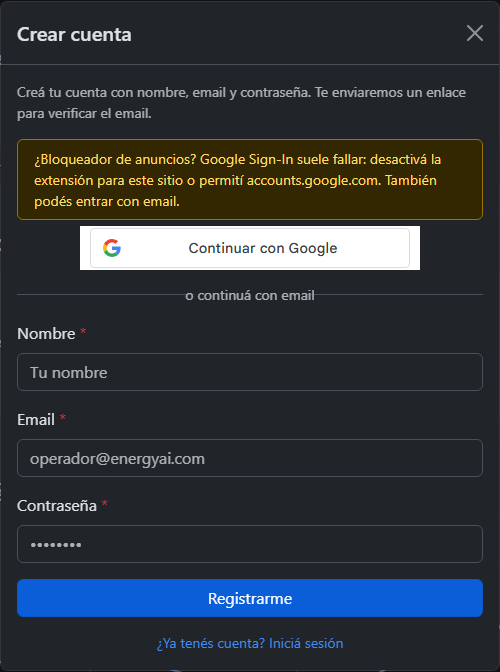
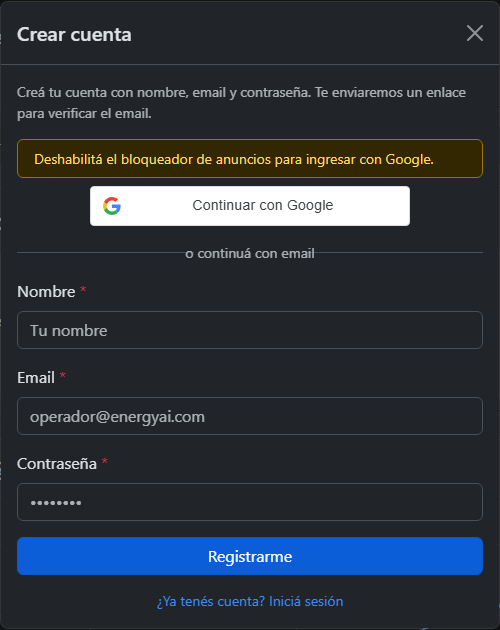
fix(auth): cartel Google solo si falla el clic; capturas login limpio vs bloqueador
Muestra googleBlockHintShort tras bloqueo/popup; README y PNG alineados.

diff --git a/frontend/src/i18n/locales/es.js b/frontend/src/i18n/locales/es.js
@@ -110,9 +110,9 @@ export default {
     switchToLogin: '¿Ya tenés cuenta? Iniciá sesión',
     orContinueWithEmail: 'o continuá con email',
     googleBlockHint:
-      'Si usás bloqueador de anuncios o extensiones de privacidad, Google Sign-In puede no cargar o no abrir la ventana al hacer clic. Desactivá el bloqueador para este sitio o permití accounts.google.com y recargá. Podés entrar con email y contraseña.',
+      'Deshabilitá el bloqueador de anuncios para ingresar con Google. También podés usar email y contraseña.',
     googleBlockHintShort:
-      '¿Bloqueador de anuncios? Google Sign-In suele fallar: desactivá la extensión para este sitio o permití accounts.google.com. También podés entrar con email.',
+      'Deshabilitá el bloqueador de anuncios para ingresar con Google.',
     forgotLink: '¿Olvidaste tu contraseña?',
     forgotTitle: 'Recuperar contraseña',
     forgotHint: 'Te enviaremos un enlace para restablecerla.',

diff --git a/frontend/src/i18n/locales/en.js b/frontend/src/i18n/locales/en.js
@@ -110,9 +110,9 @@ export default {
     switchToLogin: 'Already have an account? Sign in',
     orContinueWithEmail: 'or continue with email',
     googleBlockHint:
-      'Ad blockers or privacy extensions may block Google Sign-In or stop the sign-in window from opening when you click. Disable them for this site or allow accounts.google.com, then reload. You can still sign in with email and password.',
+      'Disable your ad blocker to sign in with Google. You can still use email and password.',
     googleBlockHintShort:
-      'Using an ad blocker? Google Sign-In often fails—disable the extension for this site or allow accounts.google.com. You can still use email sign-in.',
+      'Disable your ad blocker to sign in with Google.',
     forgotLink: 'Forgot your password?',
     forgotTitle: 'Reset password',
     forgotHint: 'We will email you a reset link.',

diff --git a/frontend/src/components/LoginModal.jsx b/frontend/src/components/LoginModal.jsx
@@ -377,11 +377,11 @@ function LoginModal({ show, onHide, onAuthSuccess }) {
               }
             }}
           >
-            <div className="alert alert-warning py-2 small mb-2" role="note">
-              {googleBlockDetected
-                ? t('auth.googleBlockHint')
-                : t('auth.googleBlockHintShort')}
-            </div>
+            {googleBlockDetected && (
+              <div className="alert alert-warning py-2 small mb-2" role="status">
+                {t('auth.googleBlockHintShort')}
+              </div>
+            )}
             <GoogleSignInButton
               onCredential={handleGoogleCredential}
               onBlocked={showGoogleBlockAfterClick}

diff --git a/frontend/README.md b/frontend/README.md
@@ -179,12 +179,15 @@ Recuperación: **olvidé contraseña** envía link; **reset** solo con `resetTok
 
 Extensiones (uBlock, Privacy Badger, etc.) pueden **bloquear el script de Google** o **impedir que abra la ventana** al hacer clic en “Continuar con Google”.
 
-En el modal se muestra un **aviso amarillo** (`alert-warning`):
+En el modal se muestra un **cartel amarillo** solo si Google no responde (`alert-warning`, clave `auth.googleBlockHintShort`):
 
-| Momento | Texto (clave i18n) |
-|---------|---------------------|
-| Siempre que hay botón Google | `auth.googleBlockHintShort` — aviso preventivo |
-| Tras clic sin popup / script fallido | `auth.googleBlockHint` — instrucciones completas (permitir `accounts.google.com`, recargar) |
+- **Sin cartel:** login normal con botón Google y email.
+- **Con cartel:** tras clic en Google sin popup (~3,2 s) o si falla el script GIS — mensaje corto: *«Deshabilitá el bloqueador de anuncios para ingresar con Google…»*
+
+| Momento | UI |
+|---------|-----|
+| Apertura del modal | Sin aviso (login limpio) |
+| Bloqueador / popup bloqueado | Cartel amarillo con texto corto |
 
 Detección en cliente (`LoginModal.jsx` + `googleSignInSupport.js`):
 
@@ -194,9 +197,9 @@ Detección en cliente (`LoginModal.jsx` + `googleSignInSupport.js`):
 
 ### Login — dos estados en pantalla
 
-| Login habitual — leyenda **corta** (`googleBlockHintShort`) | Bloqueador traba Google — leyenda **ampliada** (`googleBlockHint`) |
+| Login **sin cartel** | **Con cartel** (bloqueador traba Google) |
 |:---:|:---:|
-| ![Iniciar sesión: aviso preventivo corto](./screenshots/login.png) | ![Login: aviso largo tras clic sin popup de Google](./screenshots/login-bloqueador.png) |
+| ![Login limpio: Google y email](./screenshots/login.png) | ![Login: deshabilitá el bloqueador para Google](./screenshots/login-bloqueador.png) |
 
 Archivos: `screenshots/login.png` y `screenshots/login-bloqueador.png`.
 
@@ -359,9 +362,9 @@ Formulario de 12 campos por tipo de inmueble, sección opcional legacy y placeho
 
 ### Login — Google y bloqueador de anuncios
 
-| Aviso **corto** (antes / sin bloqueo) | Aviso **ampliado** (popup de Google bloqueado) |
+| Sin cartel | Cartel amarillo (texto corto) |
 |:---:|:---:|
-| ![Login leyenda corta](./screenshots/login.png) | ![Login leyenda ampliada](./screenshots/login-bloqueador.png) |
+| ![Login limpio](./screenshots/login.png) | ![Login con aviso bloqueador](./screenshots/login-bloqueador.png) |
 
 </div>
 

diff --git a/frontend/screenshots/README.md b/frontend/screenshots/README.md
@@ -16,7 +16,7 @@ $env:APP_URL = "https://g9-latam-team-48.vercel.app"
 npm run screenshots:auth
 ```
 
-Genera `login.png` (aviso corto) y `login-bloqueador.png` (simula clic en Google sin popup, ~3,2 s).
+Genera `login.png` (sin cartel) y `login-bloqueador.png` (clic en Google sin popup → cartel corto).
 
 Solo **Análisis IA** (formulario 12 campos + resultado):
 
@@ -42,8 +42,8 @@ Formato: **PNG**, viewport ~**1440×900** (o `fullPage` en páginas largas).
 | `contacto.png` | Contáctanos + Equipo 48 |
 | `admin-usuarios.png` | Panel Admin — Usuarios |
 | `admin-analisis.png` | Admin — Análisis IA (historial global) |
-| `login.png` | Modal **Iniciar sesión** — Google Sign-In + aviso **corto** (`googleBlockHintShort`) |
-| `login-bloqueador.png` | Mismo modal con aviso **ampliado** cuando el bloqueador impide el popup (`googleBlockHint`) |
+| `login.png` | **Iniciar sesión** sin cartel (Google + email) |
+| `login-bloqueador.png` | Mismo modal **con cartel** amarillo (bloqueador / popup bloqueado) |
 | `registro.png` | Modal **Crear cuenta** (misma UX Google + avisos que login) |
 | `admin-crear-usuario.png` | Modal — Crear usuario |
 | `admin-editar-usuario.png` | Modal — Editar usuario |

diff --git a/README.md b/README.md
@@ -62,8 +62,8 @@ Plataforma para el análisis y la optimización del consumo energético (**Energ
     <td width="50%"><strong>Admin — Análisis IA</strong><br /><img src="./frontend/screenshots/admin-analisis.png" alt="Admin Análisis IA" /></td>
   </tr>
   <tr>
-    <td width="50%"><strong>Login</strong> — leyenda corta<br /><img src="./frontend/screenshots/login.png" alt="Login aviso corto" /></td>
-    <td width="50%"><strong>Login</strong> — leyenda ampliada (bloqueador)<br /><img src="./frontend/screenshots/login-bloqueador.png" alt="Login aviso ampliado" /></td>
+    <td width="50%"><strong>Login</strong> — sin cartel<br /><img src="./frontend/screenshots/login.png" alt="Login limpio" /></td>
+    <td width="50%"><strong>Login</strong> — aviso bloqueador<br /><img src="./frontend/screenshots/login-bloqueador.png" alt="Login con cartel" /></td>
   </tr>
   <tr>
     <td width="50%"><strong>Registro</strong><br /><img src="./frontend/screenshots/registro.png" alt="Registro" /></td>

diff --git a/docs/frontend/ACCESIBILIDAD.md b/docs/frontend/ACCESIBILIDAD.md
@@ -38,7 +38,7 @@ Patrón gráficos Recharts:
 1. Contenedor del gráfico con **`aria-hidden="true"`**.
 2. **`ChartSrTable`**: tabla `visually-hidden` + `<caption>` (`a11y.chartDataCaption`).
 
-**Google Sign-In y bloqueadores:** aviso amarillo en el modal siempre que hay botón Google (`auth.googleBlockHintShort`); si el clic no abre popup o falla el script, texto ampliado (`auth.googleBlockHint`). Login por email sigue disponible (`LoginModal.jsx`, `googleSignInSupport.js`).
+**Google Sign-In y bloqueadores:** cartel amarillo **solo** si el clic en Google no abre popup o falla GIS (`auth.googleBlockHintShort`). Login limpio al abrir el modal. Email/contraseña siempre disponible.
 
 ---
 
